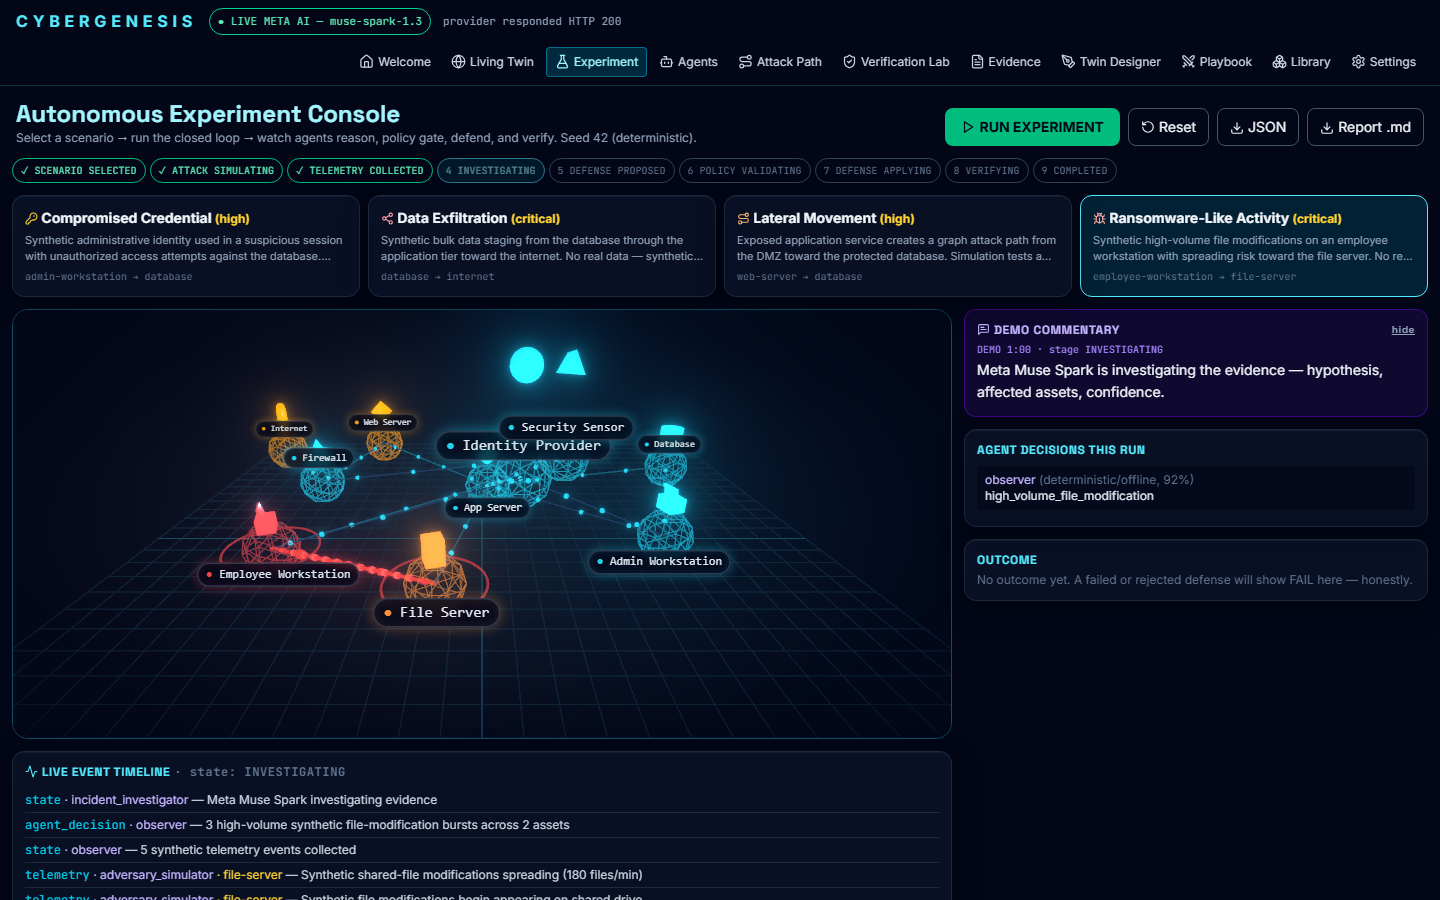
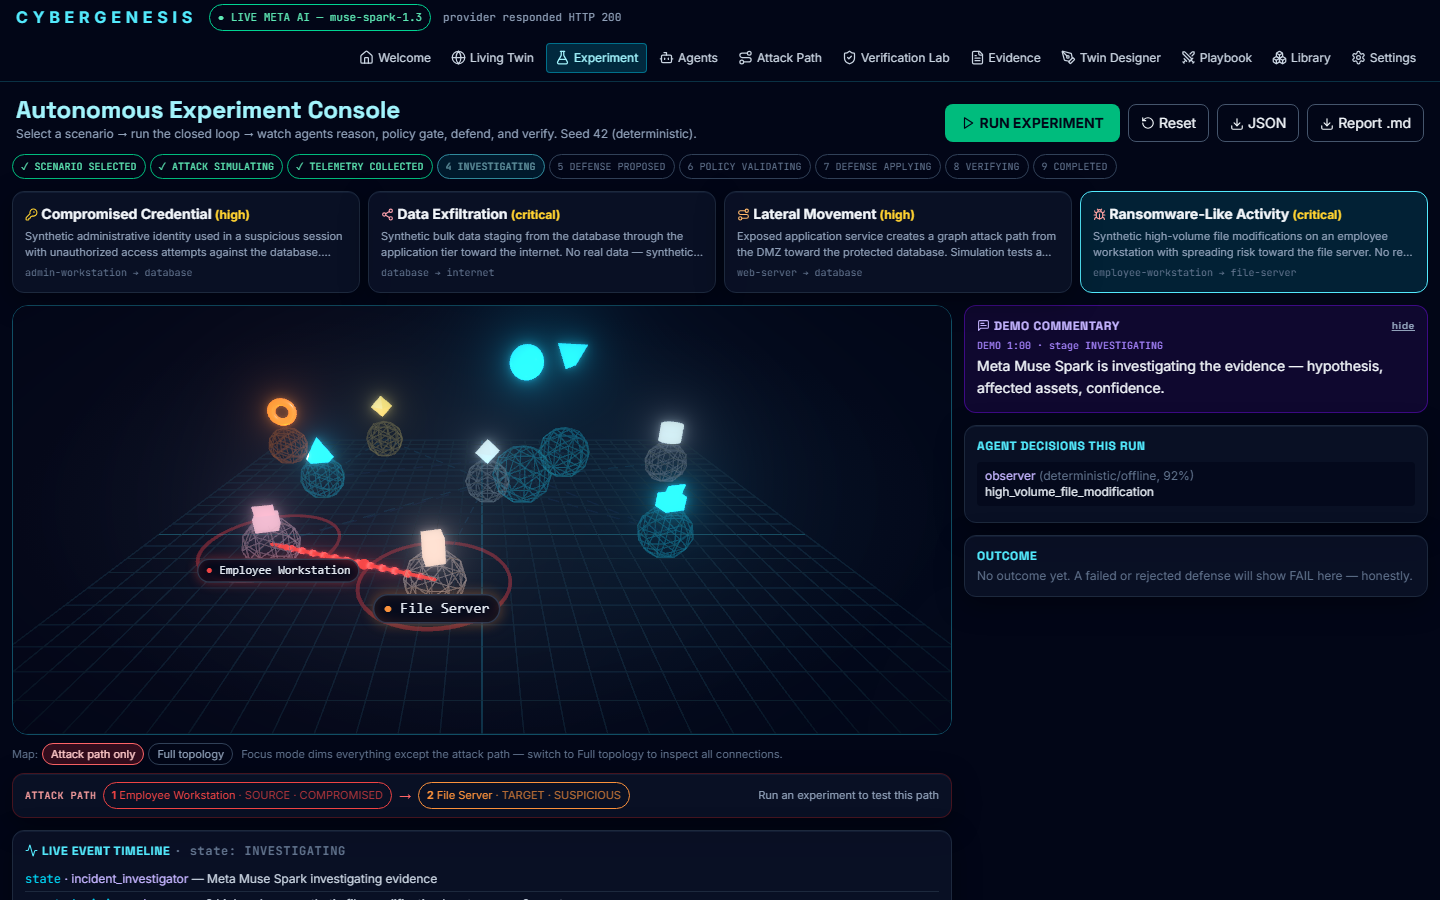
Declutter attack map: focus mode (path-only labels/particles, faded non-path edges), linear attack-chain strip

diff --git a/frontend/src/App.tsx b/frontend/src/App.tsx
@@ -12,7 +12,7 @@ export const ASSET_TYPE_ICON: Record<string, ReactNode> = {
   workstation: <Monitor size={12} className="inline" />, file_server: <Folder size={12} className="inline" />,
   sensor: <Radar size={12} className="inline" />,
 }
-import { STATUS_COLOR } from './components/status'
+import { ATTACK_PATHS, STATUS_COLOR } from './components/status'
 
 const TwinScene = lazy(() => import('./components/TwinScene'))
 const TwinDesigner = lazy(() => import('./components/TwinDesigner'))
@@ -80,6 +80,47 @@ function TwinView({ twin }: { twin: Twin }) {
         <TwinScene twin={twin} />
       </Suspense>
     </SceneBoundary>
+  )
+}
+
+/** Plain-language attack chain: reads left-to-right without needing the 3D view. */
+function AttackChain() {
+  const s = useStore()
+  const path = ATTACK_PATHS[s.scenarioId] ?? []
+  const byId = Object.fromEntries((s.twin?.assets ?? []).map((a) => [a.id, a]))
+  const blocked = s.results?.verification?.metrics.after_reachable_or_granted === false
+  if (!path.length) return null
+  return (
+    <div className="mt-2 flex flex-wrap items-center gap-1.5 rounded-xl border border-red-900/50 glass-panel px-3 py-2" aria-label="Attack path in plain language">
+      <span className="font-mono text-[10px] tracking-wider text-red-300">ATTACK PATH</span>
+      {path.map((id, i) => {
+        const a = byId[id]
+        const role = i === 0 ? 'SOURCE' : i === path.length - 1 ? 'TARGET' : `PIVOT ${i}`
+        return (
+          <span key={id} className="flex items-center gap-1.5">
+            {i > 0 && <span className={blocked && i === path.length - 1 ? 'text-emerald-300 font-bold' : 'text-red-400'}>{blocked && i === path.length - 1 ? '✕ blocked →' : '→'}</span>}
+            <button onClick={() => s.set({ selectedAsset: id })} className="rounded-full border px-2 py-1 text-[11px]"
+              style={{ borderColor: STATUS_COLOR[a?.status ?? 'healthy'], color: STATUS_COLOR[a?.status ?? 'healthy'] }}>
+              <b>{i + 1}</b> {a?.name ?? id} <span className="opacity-70">· {role} · {(a?.status ?? '—').toUpperCase()}</span>
+            </button>
+          </span>
+        )
+      })}
+      <span className={`ml-auto text-[11px] ${blocked ? 'text-emerald-300 font-bold' : 'text-slate-400'}`}>
+        {s.results?.verification ? (blocked ? '✓ Defense cut this path (verified)' : '✗ Path still open (verification failed)') : 'Run an experiment to test this path'}
+      </span>
+    </div>
+  )
+}
+
+function MapFocusToggle() {
+  const s = useStore()
+  return (
+    <div className="flex items-center gap-1 text-[11px]">
+      <span className="text-slate-500">Map:</span>
+      <button onClick={() => s.set({ mapFocus: true })} className={`rounded-full border px-2 py-0.5 ${s.mapFocus ? 'border-red-400 bg-red-500/20 text-red-200' : 'border-slate-700 text-slate-400'}`}>Attack path only</button>
+      <button onClick={() => s.set({ mapFocus: false })} className={`rounded-full border px-2 py-0.5 ${!s.mapFocus ? 'border-cyan-400 bg-cyan-500/20 text-cyan-200' : 'border-slate-700 text-slate-400'}`}>Full topology</button>
+    </div>
   )
 }
 
@@ -347,10 +388,12 @@ export default function App() {
                 ? s.viewMode === '3d' ? <TwinView twin={s.twin} /> : <Twin2D twin={s.twin} />
                 : <div className="p-6 text-slate-400">Loading twin…</div>}
             </div>
-            <div className="mt-2 flex gap-2 text-xs">
+            <div className="mt-2 flex flex-wrap items-center gap-2 text-xs">
               <button onClick={() => s.set({ viewMode: s.viewMode === '3d' ? '2d' : '3d' })} className="rounded border border-slate-600 px-2 py-1">Toggle {s.viewMode === '3d' ? '2D (accessible)' : '3D'}</button>
+              <MapFocusToggle />
               <span className="text-slate-500 py-1">Drag to orbit · scroll to zoom · click node to inspect · status also available as text in the asset list</span>
             </div>
+            <AttackChain />
             <section className="mt-3 max-h-56 overflow-auto rounded-xl border border-slate-800 glass-panel p-3" aria-label="Event timeline">
               <h2 className="mb-2 flex items-center gap-1 text-xs font-bold tracking-wider text-cyan-300"><Activity size={13} /> EVENT TIMELINE</h2>
               {s.events.length === 0 && <p className="text-xs text-slate-500">No events yet. Run a simulation.</p>}
@@ -420,6 +463,8 @@ export default function App() {
               <div className="h-[430px] rounded-2xl border border-cyan-900 overflow-hidden bg-slate-950">
                 {s.twin ? (s.viewMode === '3d' ? <TwinView twin={s.twin} /> : <Twin2D twin={s.twin} />) : <SkeletonTwin />}
               </div>
+              <div className="mt-2 flex items-center gap-2"><MapFocusToggle /><span className="text-[11px] text-slate-500">Focus mode dims everything except the attack path — switch to Full topology to inspect all connections.</span></div>
+              <AttackChain />
               <section className="mt-3 max-h-64 overflow-auto rounded-xl border border-slate-800 glass-panel p-3" aria-label="Live event timeline">
                 <h2 className="mb-2 flex items-center gap-1 text-xs font-bold tracking-wider text-cyan-300"><Activity size={13} /> LIVE EVENT TIMELINE <span className="font-mono text-slate-500">· state: {s.runState}</span></h2>
                 {s.events.length === 0 && <p className="text-xs text-slate-500">No events yet — press RUN EXPERIMENT. (Space also runs, R resets, 1–4 pick a scenario.)</p>}

diff --git a/frontend/src/components/TwinScene.tsx b/frontend/src/components/TwinScene.tsx
@@ -50,7 +50,7 @@ function NodeShape({ a, color, selected }: { a: Asset; color: string; selected: 
   }
 }
 
-function Node({ a }: { a: Asset }) {
+function Node({ a, dimmed = false }: { a: Asset; dimmed?: boolean }) {
   const ref = useRef<THREE.Group>(null)
   const shellRef = useRef<THREE.Mesh>(null)
   const lightRef = useRef<THREE.PointLight>(null)
@@ -66,6 +66,7 @@ function Node({ a }: { a: Asset }) {
   const expanded = selected || hovered
   const below = LABEL_BELOW.has(a.id)
   const compromised = a.status === 'compromised' || a.status === 'suspicious'
+  const showLabel = !dimmed || expanded // in focus mode only attack-path / hovered / selected nodes get labels
   useFrame(({ clock }) => {
     const t = clock.elapsedTime
     // smooth status colour transition (~0.5s lerp toward target)
@@ -111,17 +112,17 @@ function Node({ a }: { a: Asset }) {
   })
   return (
     <group position={a.pos}>
-      <pointLight ref={lightRef} color={color} intensity={6} distance={5.5} decay={1.8} />
+      <pointLight ref={lightRef} color={color} intensity={dimmed ? 1.5 : 6} distance={5.5} decay={1.8} />
       <group ref={ref}
         onClick={(e) => { e.stopPropagation(); set({ selectedAsset: a.id }) }}
         onPointerOver={(e) => { e.stopPropagation(); setHovered(true) }}
         onPointerOut={() => setHovered(false)}>
         <NodeShape a={a} color={color} selected={selected} />
       </group>
-      {/* holographic wireframe shell */}
-      <mesh ref={shellRef}>
+      {/* holographic wireframe shell — faint in focus mode for non-path nodes */}
+      <mesh ref={shellRef} scale={dimmed ? 0.82 : 1}>
         <icosahedronGeometry args={[0.72, 1]} />
-        <meshBasicMaterial color={color} wireframe transparent opacity={expanded ? 0.5 : 0.22} />
+        <meshBasicMaterial color={color} wireframe transparent opacity={expanded ? 0.5 : dimmed ? 0.05 : 0.14} />
       </mesh>
       {compromised && (
         <mesh ref={pulseRef} rotation={[Math.PI / 2, 0, 0]}>
@@ -138,7 +139,7 @@ function Node({ a }: { a: Asset }) {
       {selected && (
         <mesh><sphereGeometry args={[1.0, 24, 24]} /><meshBasicMaterial color={color} wireframe transparent opacity={0.25} /></mesh>
       )}
-      <Html distanceFactor={18} position={[0, below ? -0.92 : 0.92, 0]} center zIndexRange={[10, 0]}>
+      {showLabel && <Html distanceFactor={18} position={[0, below ? -0.92 : 0.92, 0]} center zIndexRange={[10, 0]}>
         <div style={{
           color: '#e2e8f0', fontSize: expanded ? 11 : 9.5, fontFamily: 'monospace', textAlign: 'center',
           pointerEvents: 'none', whiteSpace: 'nowrap', background: 'rgba(2,6,23,0.78)',
@@ -150,7 +151,7 @@ function Node({ a }: { a: Asset }) {
           <span style={{ color }}>●</span> {SHORT_LABEL[a.id] ?? a.name}
           {expanded && <><br /><span style={{ color, fontSize: 9 }}>{a.status.toUpperCase()} · {a.zone}</span></>}
         </div>
-      </Html>
+      </Html>}
     </group>
   )
 }
@@ -217,12 +218,8 @@ function WaveEdge({ from, to }: { from: [number, number, number]; to: [number, n
   )
 }
 
-export const ATTACK_PATHS: Record<string, string[]> = {
-  ransomware_activity: ['employee-workstation', 'file-server'],
-  compromised_identity: ['admin-workstation', 'database'],
-  lateral_movement: ['internet', 'firewall', 'web-server', 'app-server', 'database'],
-  data_exfiltration: ['database', 'app-server', 'web-server', 'firewall', 'internet'],
-}
+export { ATTACK_PATHS } from './status'
+import { ATTACK_PATHS } from './status'
 
 /** Keyboard nav: arrows orbit, +/- zoom, Enter selects most severe asset, Esc clears.
  * Identical state is also available as text via the asset list (accessible alternative). */
@@ -257,6 +254,7 @@ function KeyboardNav({ twin }: { twin: Twin }) {
 
 export default function TwinScene({ twin }: { twin: Twin }) {
   const scenarioId = useStore((s) => s.scenarioId)
+  const mapFocus = useStore((s) => s.mapFocus)
   const pos = useMemo(() => Object.fromEntries(twin.assets.map((a) => [a.id, a.pos])), [twin])
   const path = ATTACK_PATHS[scenarioId] ?? []
   const onPath = (s: string, t: string) => {
@@ -273,15 +271,16 @@ export default function TwinScene({ twin }: { twin: Twin }) {
       {twin.connections.map((c) => {
         const attack = onPath(c.source, c.target)
         const col = !c.active ? '#334155' : attack ? '#ef4444' : c.traversable ? '#155e75' : '#1e3a5f'
+        const faded = mapFocus && !attack
         return (
           <group key={`${c.source}-${c.target}`}>
-            <Line points={[pos[c.source], pos[c.target]]} color={col} lineWidth={attack ? 3.5 : 1.2} transparent opacity={c.active ? 0.95 : 0.35} />
+            <Line points={[pos[c.source], pos[c.target]]} color={col} lineWidth={attack ? 3.5 : 1} transparent opacity={faded ? 0.1 : c.active ? 0.95 : 0.35} dashed={faded} dashSize={0.4} gapSize={0.3} />
             {attack && c.active && <WaveEdge from={pos[c.source]} to={pos[c.target]} />}
-            <Traffic from={pos[c.source]} to={pos[c.target]} active={c.active} attack={attack} />
+            <Traffic from={pos[c.source]} to={pos[c.target]} active={c.active && (!mapFocus || attack)} attack={attack} />
           </group>
         )
       })}
-      {twin.assets.map((a) => <Node key={a.id} a={a} />)}
+      {twin.assets.map((a) => <Node key={a.id} a={a} dimmed={mapFocus && !path.includes(a.id)} />)}
       <KeyboardNav twin={twin} />
       <OrbitControls enableDamping makeDefault />
       <EffectComposer>

diff --git a/frontend/src/components/status.ts b/frontend/src/components/status.ts
@@ -1,3 +1,10 @@
+export const ATTACK_PATHS: Record<string, string[]> = {
+  ransomware_activity: ['employee-workstation', 'file-server'],
+  compromised_identity: ['admin-workstation', 'database'],
+  lateral_movement: ['internet', 'firewall', 'web-server', 'app-server', 'database'],
+  data_exfiltration: ['database', 'app-server', 'web-server', 'firewall', 'internet'],
+}
+
 export const STATUS_COLOR: Record<string, string> = {
   healthy: '#22d3ee', exposed: '#f59e0b', suspicious: '#fb923c',
   compromised: '#ef4444', contained: '#38bdf8', recovering: '#a78bfa', remediated: '#34d399',

diff --git a/frontend/src/stores/store.ts b/frontend/src/stores/store.ts
@@ -16,6 +16,7 @@ interface State {
   viewMode: '3d' | '2d'
   replayBaseline: string[] | null
   replayVerdict: string | null
+  mapFocus: boolean
   customTwins: import('../types').CustomTwinDef[]
   customScenarios: import('../types').CustomScenarioDef[]
   designerTwinId: string | null
@@ -37,6 +38,7 @@ export const useStore = create<State>((set) => ({
   viewMode: '3d',
   replayBaseline: null,
   replayVerdict: null,
+  mapFocus: true,
   customTwins: [],
   customScenarios: [],
   designerTwinId: null,
